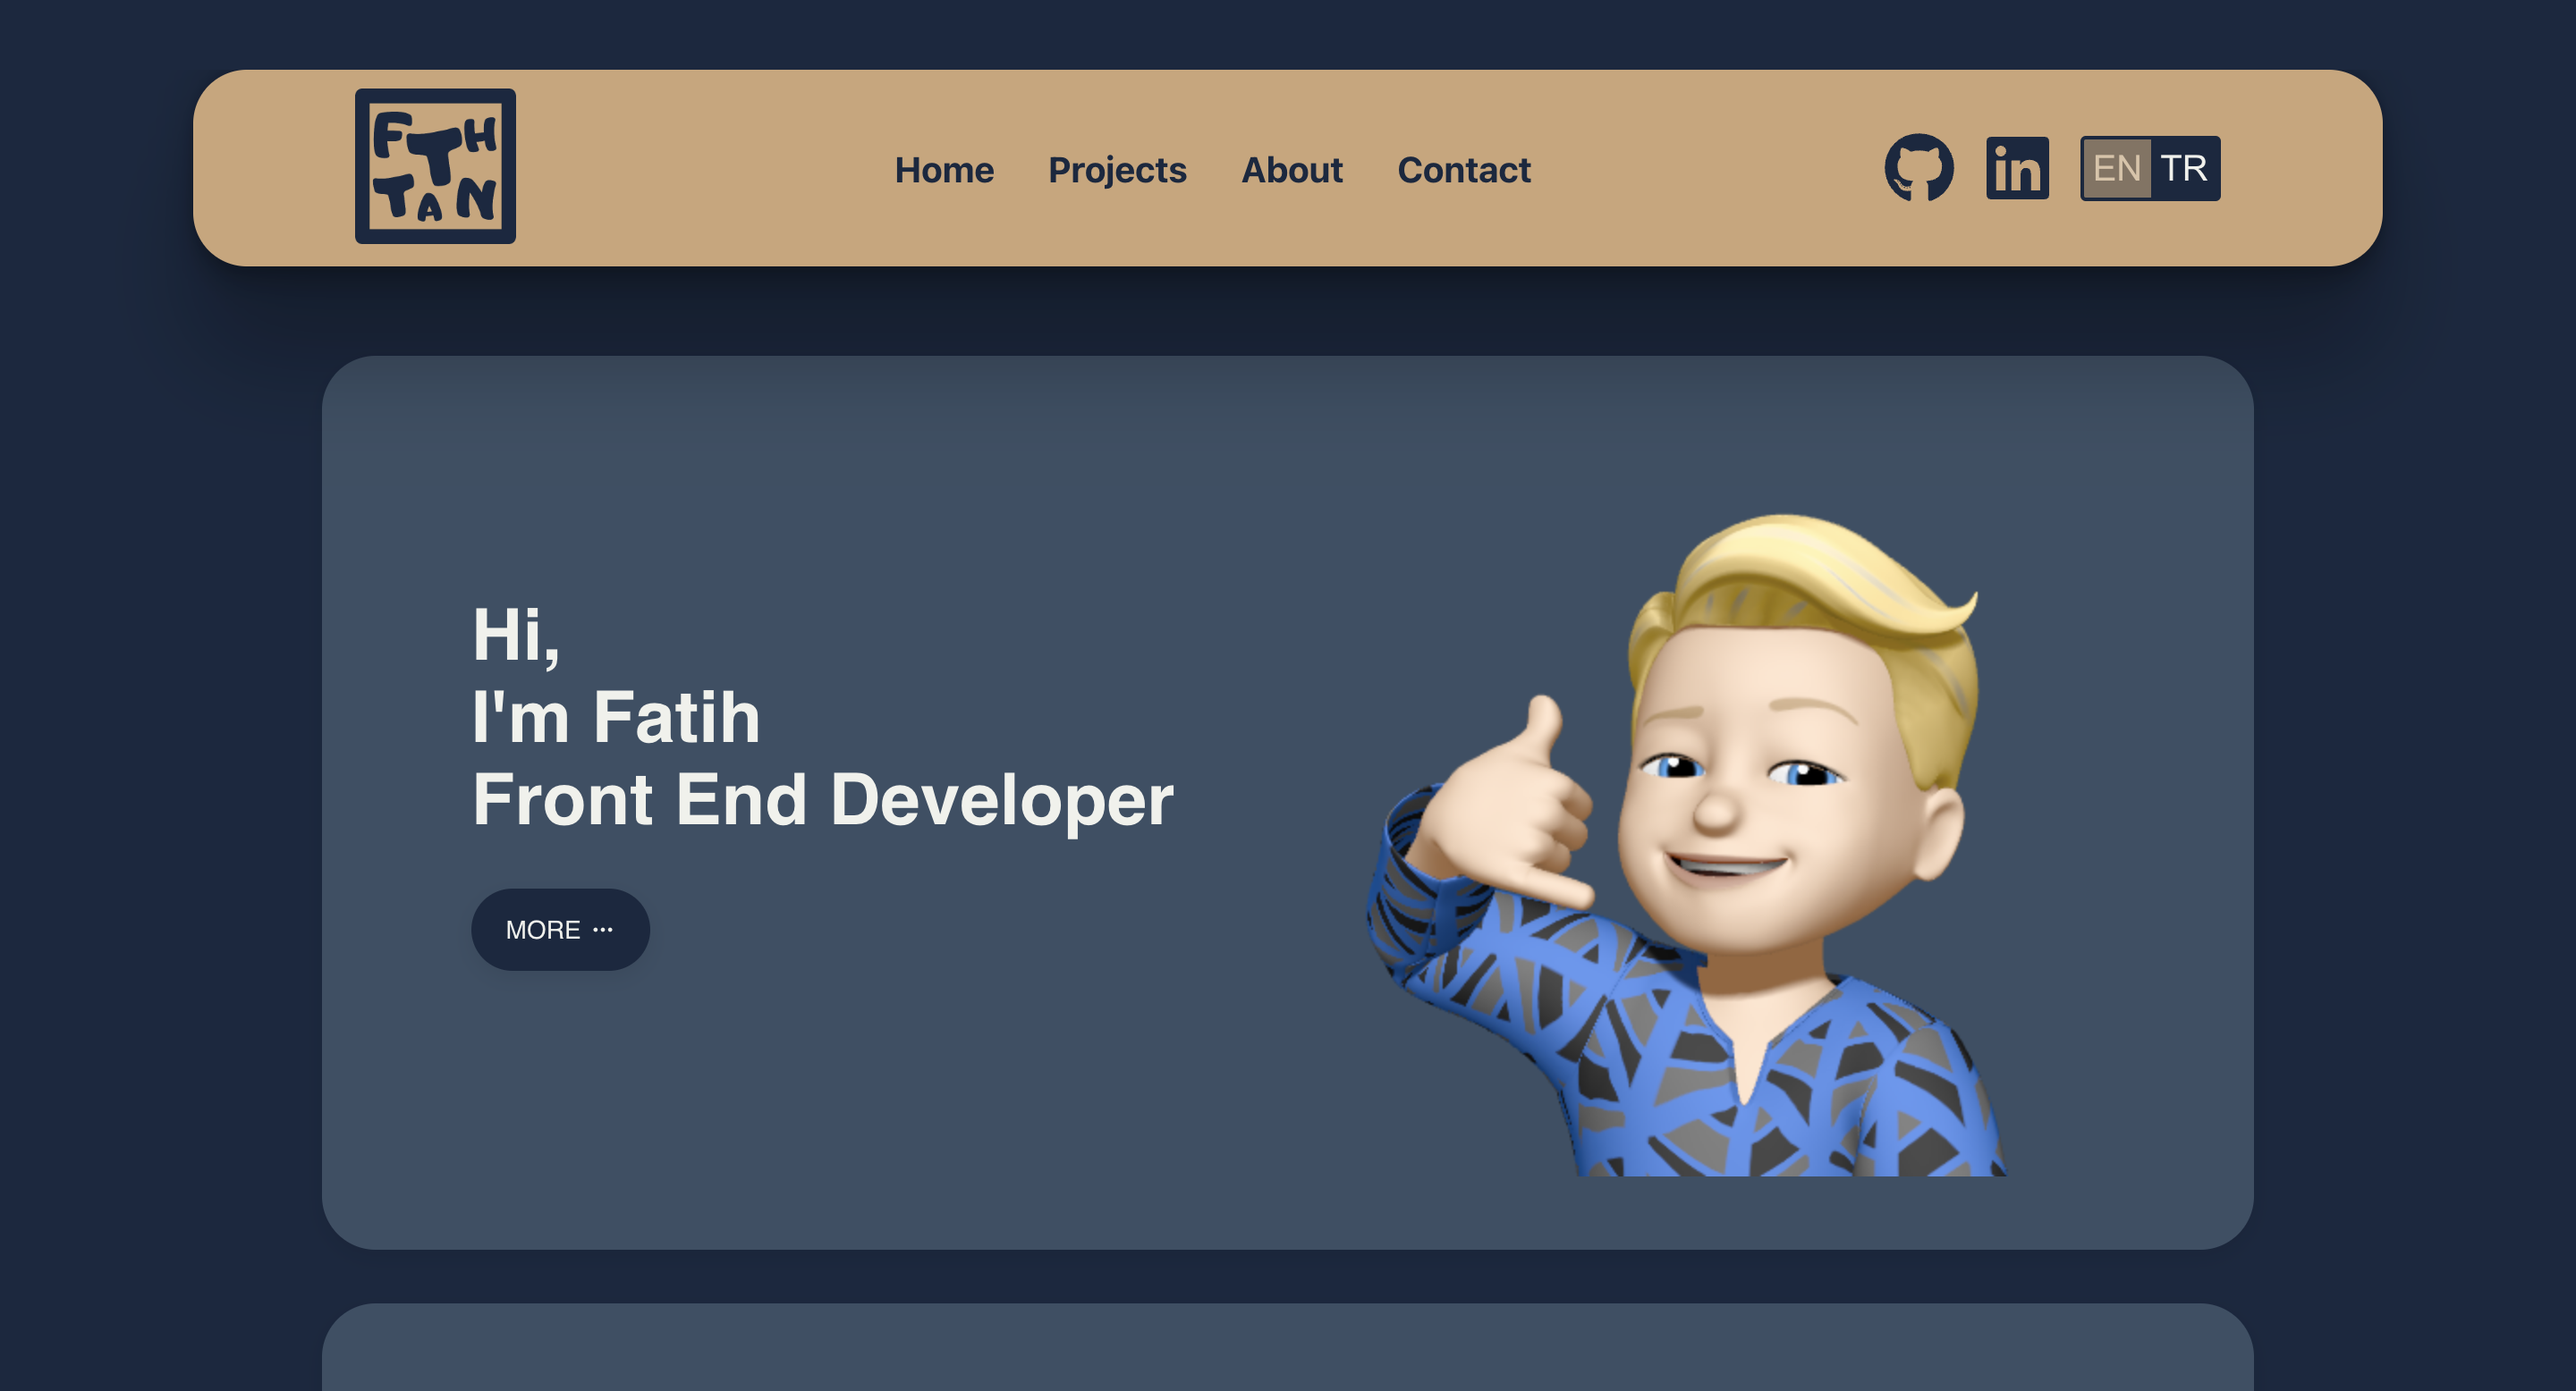
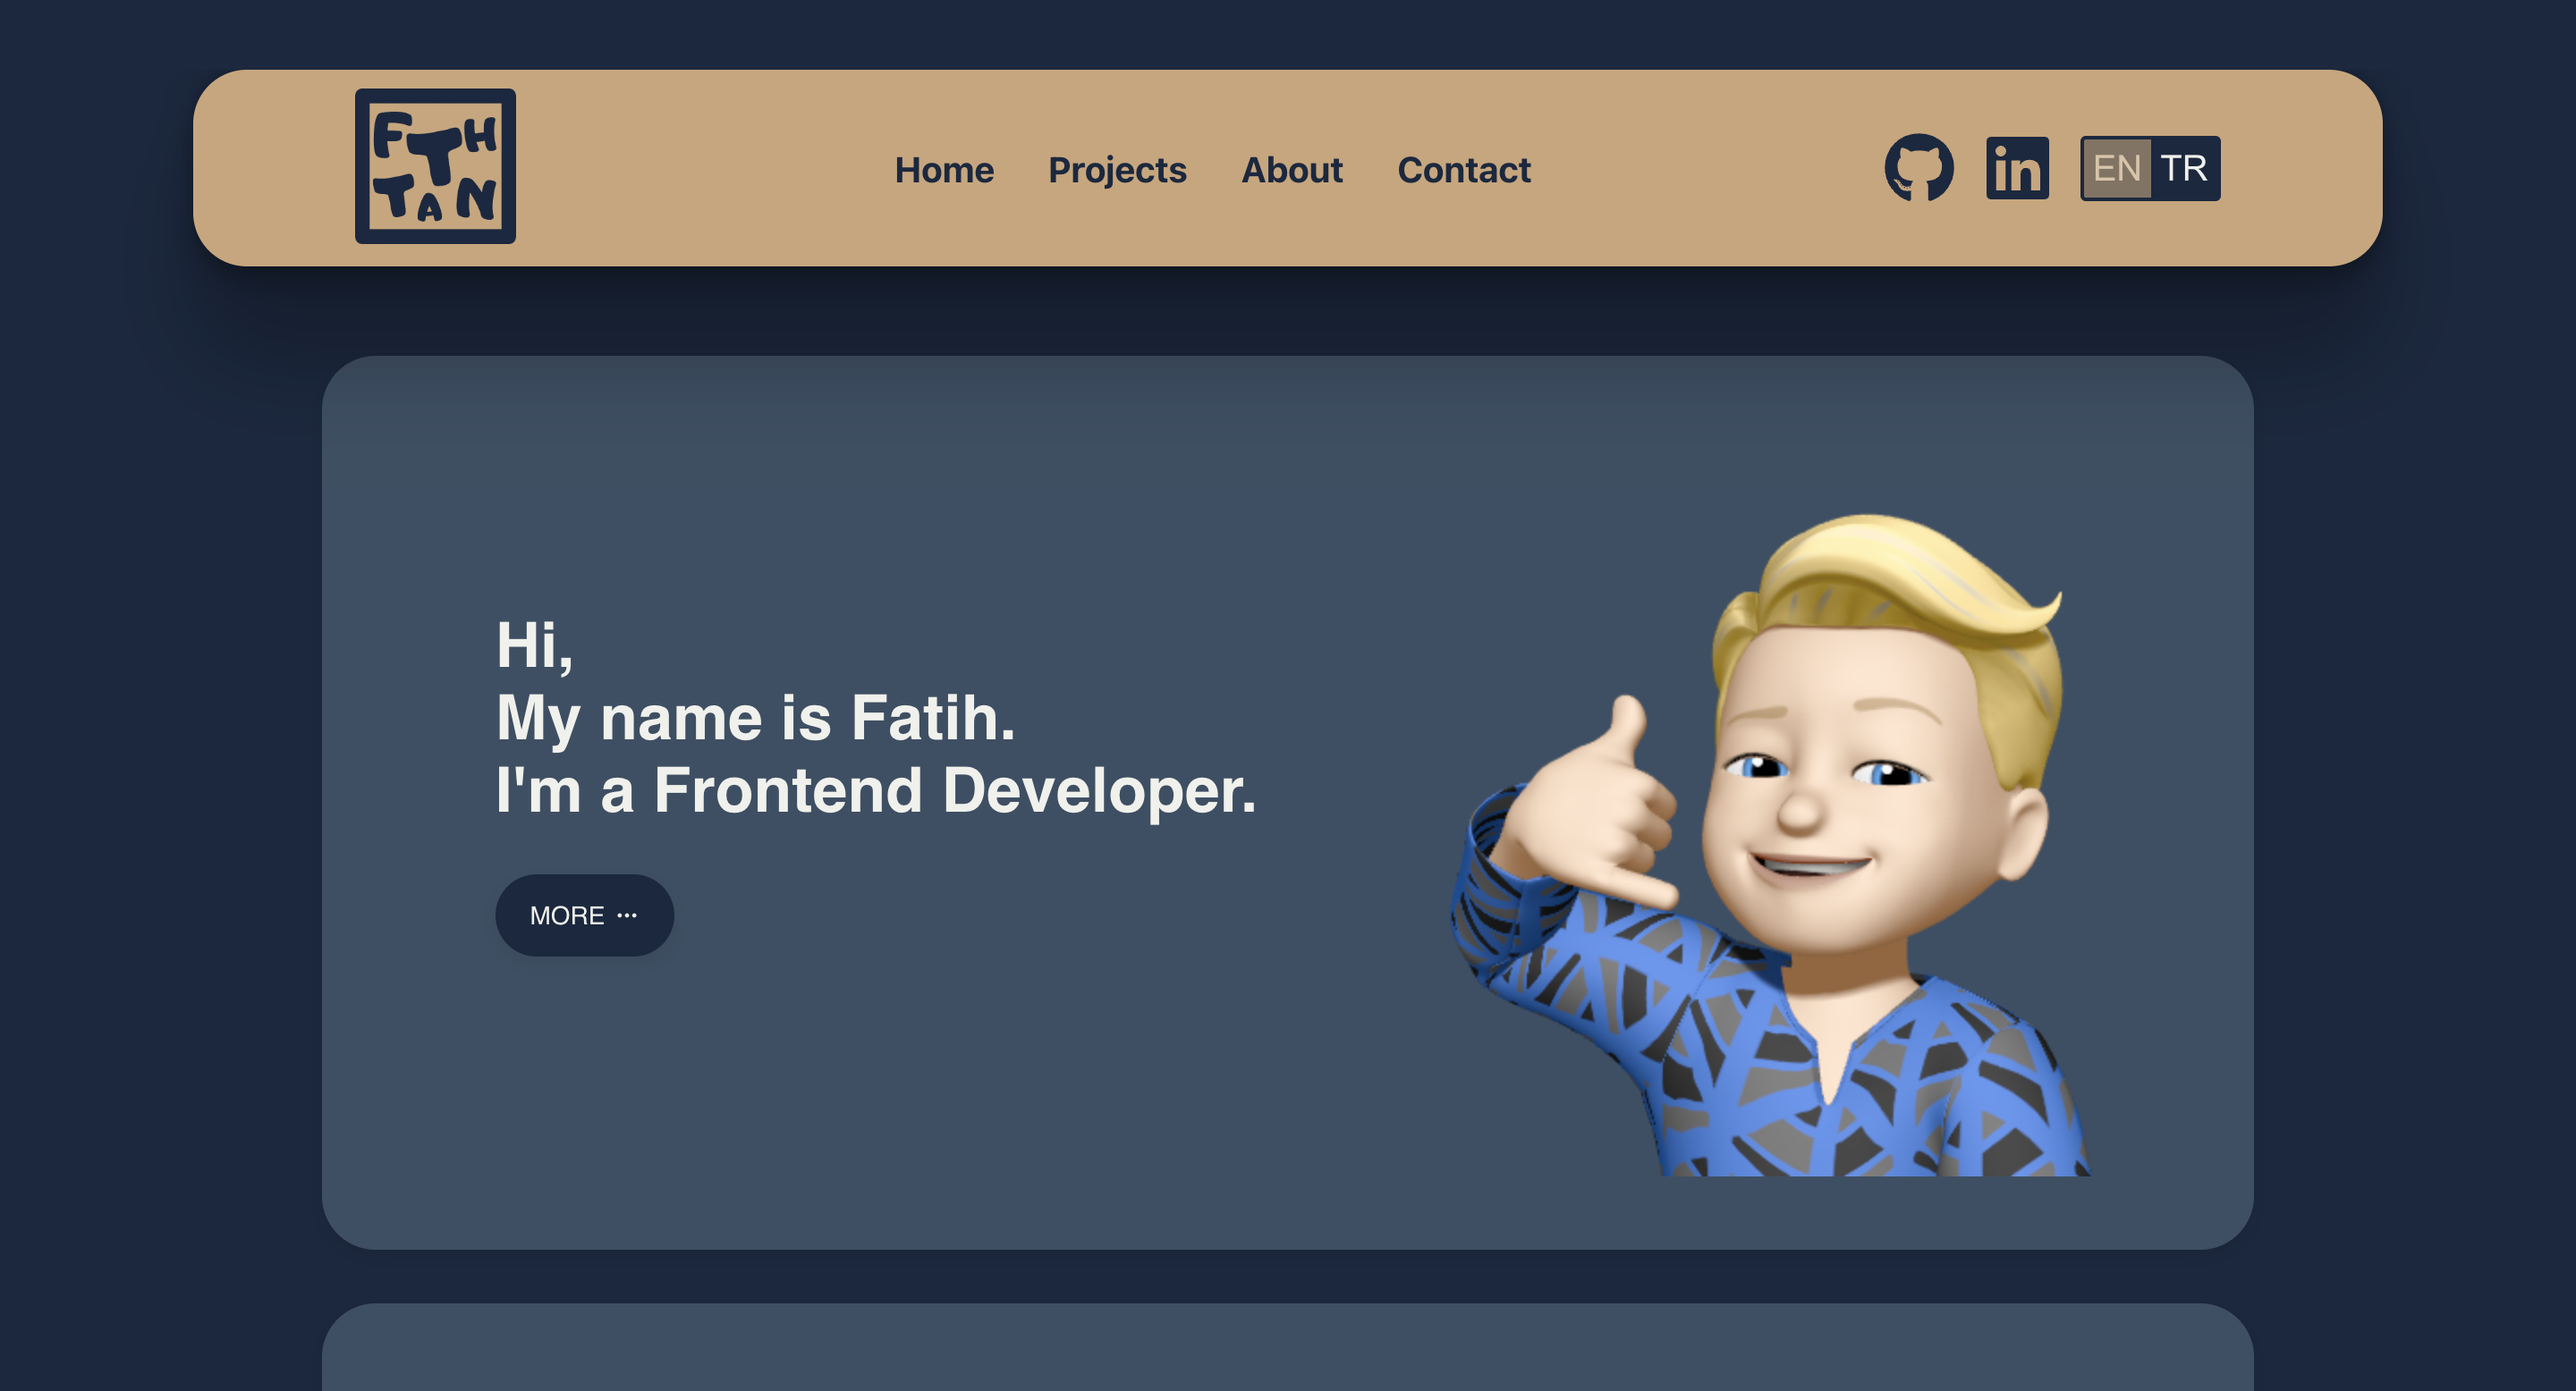
Github.io Eklendi.

Changed region(s): [[0.5312, 0.3702, 0.8125, 0.8638], [0.1562, 0.4319, 0.5, 0.7095]]

diff --git a/src/components/body/BodyComp.jsx b/src/components/body/BodyComp.jsx
@@ -15,9 +15,9 @@ const BodyComp = () => {
                         <b>
                             {lang === 'en' ? 'Hi,' : 'Merhaba,'}
                             <br />
-                            {lang === 'en' ? "I'm Fatih" : 'Ben Fatih'}
+                            {lang === 'en' ? "My name is Fatih." : 'Benim adım Fatih'}
                             <br />
-                            {lang === 'en' ? "Front End Developer" : 'Front End Developer'}
+                            {lang === 'en' ? "I'm a Frontend Developer." : "Ben Frontend Developer'ım"}
                         </b>
                         <a href='#about' className='aboutButton personalBodyAboutButton'>{lang === "en" ? "More" : "Devamı"}<i><FiMoreHorizontal /></i></a>
                     </div>

diff --git a/src/scss/components/body/_bodyComp.scss b/src/scss/components/body/_bodyComp.scss
@@ -19,8 +19,9 @@
 
 .personalWebSiteBodyContentLeft {
     @extend %font-family;
-    font-size: 4rem;
+    font-size: 3.5rem;
     color: #f0f1ec;
+    margin-left: 6rem;
 
     &>a {
         transform: translate(-50%, -50%);
@@ -34,6 +35,7 @@
 
 .personalWebSiteBodyContentRight {
     padding-left: 10rem;
+    pointer-events: none;
 }
 
 .personalBodyAboutButton {

diff --git a/src/scss/components/about/_aboutComp.scss b/src/scss/components/about/_aboutComp.scss
@@ -25,4 +25,5 @@
 
 .personalWebSiteAboutContentRight {
     padding: 5rem;
+    pointer-events: none;
 }
